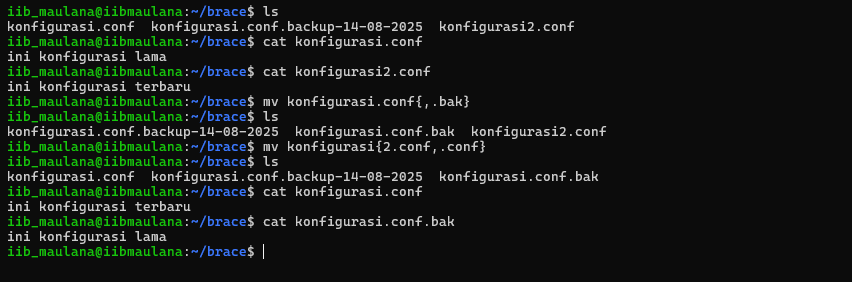
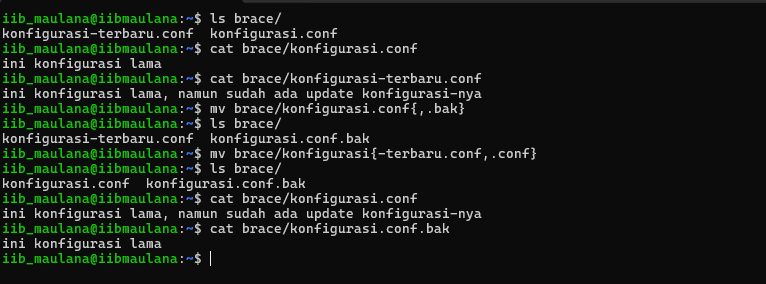
penambahan isi materi brace expansion

Changed region(s): [[0.0, 0.0, 1.0, 0.9362]]

diff --git a/content/blogs/brace-expansion.md b/content/blogs/brace-expansion.md
@@ -37,7 +37,7 @@ atau untuk lebih jelas hasilnya bisa dilihat pada gambar dibawah ini:
 
 ![contoh brace](https://miftah-maulana.my.id/assets/images/brace-expansion/contoh-brace.png)
 
-Namun apasih _Brace Expansion_ itu? Nah biar mempersingkat mungkin bisa dibaca terlebih dahulu pada link refrensi ini https://www.gnu.org/software/bash/manual/html_node/Brace-Expansion.html .Tentunya _Brace Expansion_ ini tidak hanya dapat digunakan pada _command_ `cp` saja. Ekspansi ini bisa juga digunakan dengan _command-command_ lain kok. Salah satu yang berdekatan dengan `cp` atau _copy_  biasanya adalah _command_ _move_ atau yang sering dikenal dengan `mv`. Selain untuk memindahkan file, `mv` juga bisa digunakan untuk _rename_ file(mungkin pembaca sudah lebih tahu ya disini). Nah biasanya kita menjalankan perintah `mv` itu dengan cara `mv` <file-yang-ingin-di-rename> <nama-file-yang-baru> atau mungkin lebih jelas bila dengan gambar di bawah ini yang saya praktikan. 
+Namun apasih _Brace Expansion_ itu? Nah biar mempersingkat mungkin bisa dibaca terlebih dahulu pada link refrensi berikut : https://www.gnu.org/software/bash/manual/html_node/Brace-Expansion.html .Tentunya _Brace Expansion_ ini tidak hanya dapat digunakan pada _command_ `cp` saja. Ekspansi ini bisa juga digunakan dengan _command-command_ lain kok. Salah satu yang berdekatan dengan `cp` atau _copy_  biasanya adalah _command_ _move_ atau yang sering dikenal dengan `mv`. Selain untuk memindahkan file, `mv` juga bisa digunakan untuk _rename_ file(mungkin pembaca sudah lebih tahu ya disini). Nah biasanya kita menjalankan perintah `mv` itu dengan cara `mv` <file-yang-ingin-di-rename> <nama-file-yang-baru> atau mungkin lebih jelas bila dengan gambar di bawah ini yang saya praktikan. 
 
 ![mv brace](https://miftah-maulana.my.id/assets/images/brace-expansion/mv-brace.png)
 
@@ -45,5 +45,6 @@ nah _Brace Expansion_ juga bisa saya terapkan dalam aktivitas _rename_ file. Con
 
 ![praktik](https://miftah-maulana.my.id/assets/images/brace-expansion/praktek.png)
 
+Singkatnya, pada gambar diatas file dengan nama `konfigurasi.conf` adalah file konfigurasi _existing_ yang akan saya _update_ isinya. Sedangkan file dengan nama `konfigurasi-terbaru.conf` adalah file konfigurasi yang isinya sama, namun sudah saya lakukan _update_ dari file `konfigurasi.conf`/_existing_. Nah saya meng-implementasikan _Brace Expansion_ dalam _case_ ini guna mempersingkat dan menghindari kesalahan apabila saya masih menggunakan _basic command_. 
 
 
